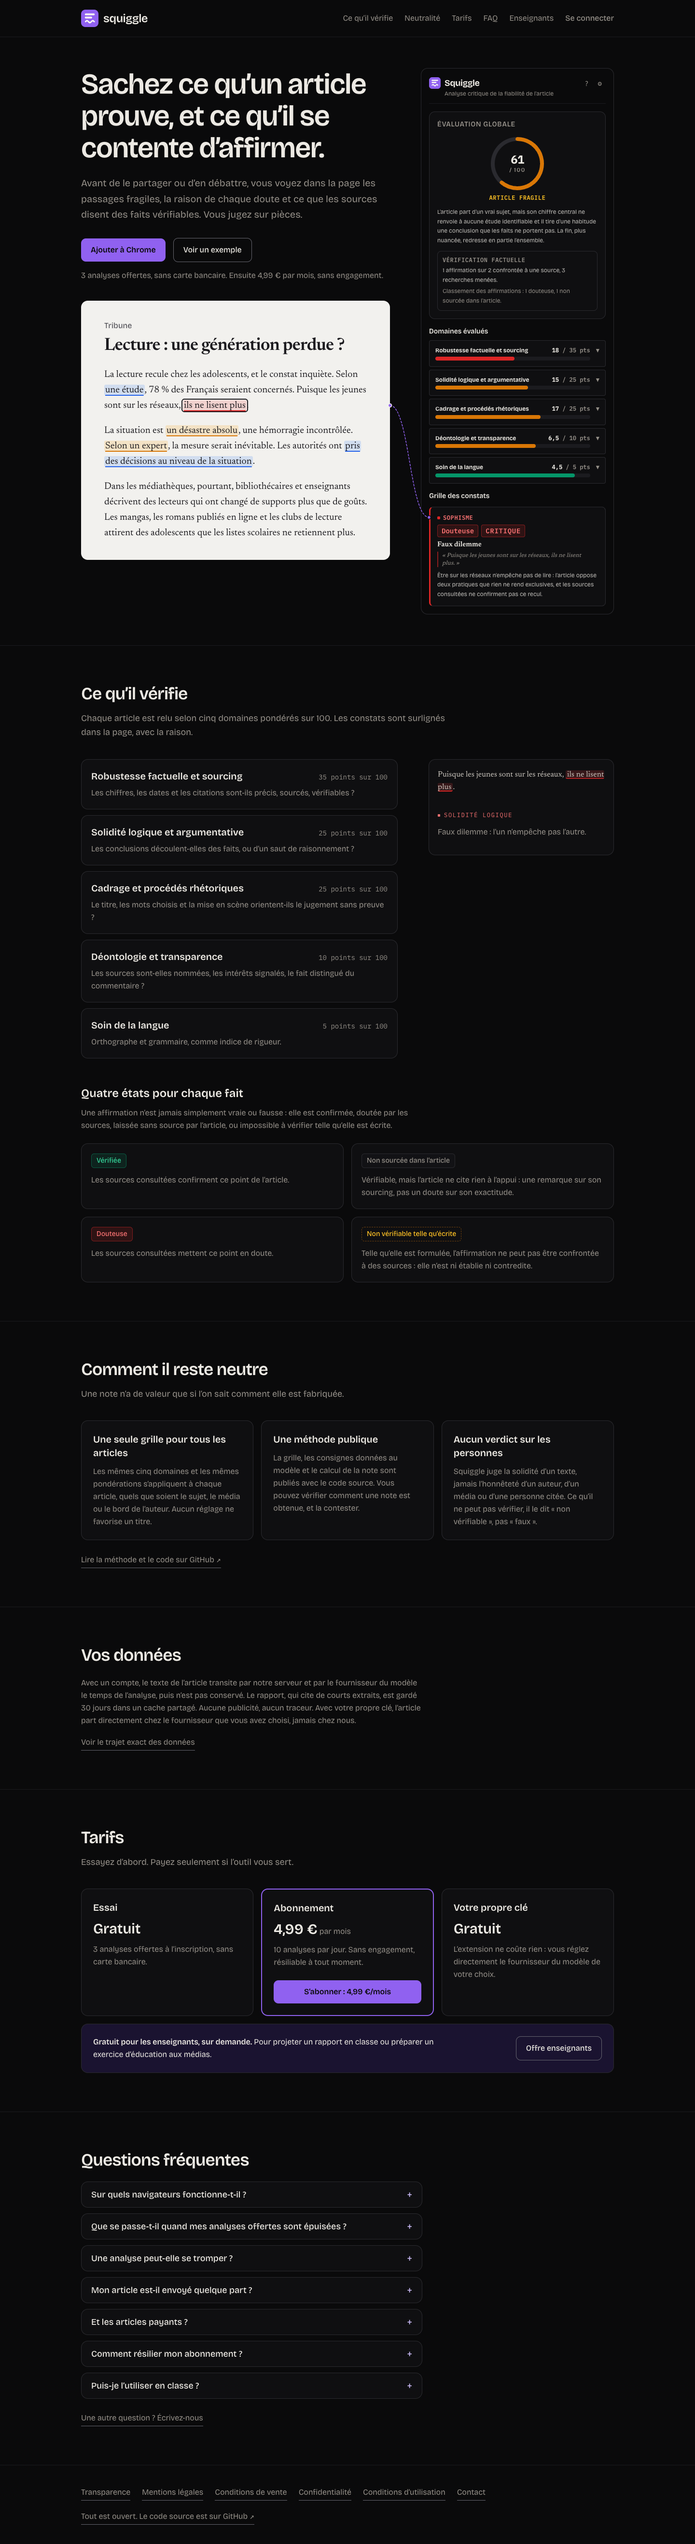
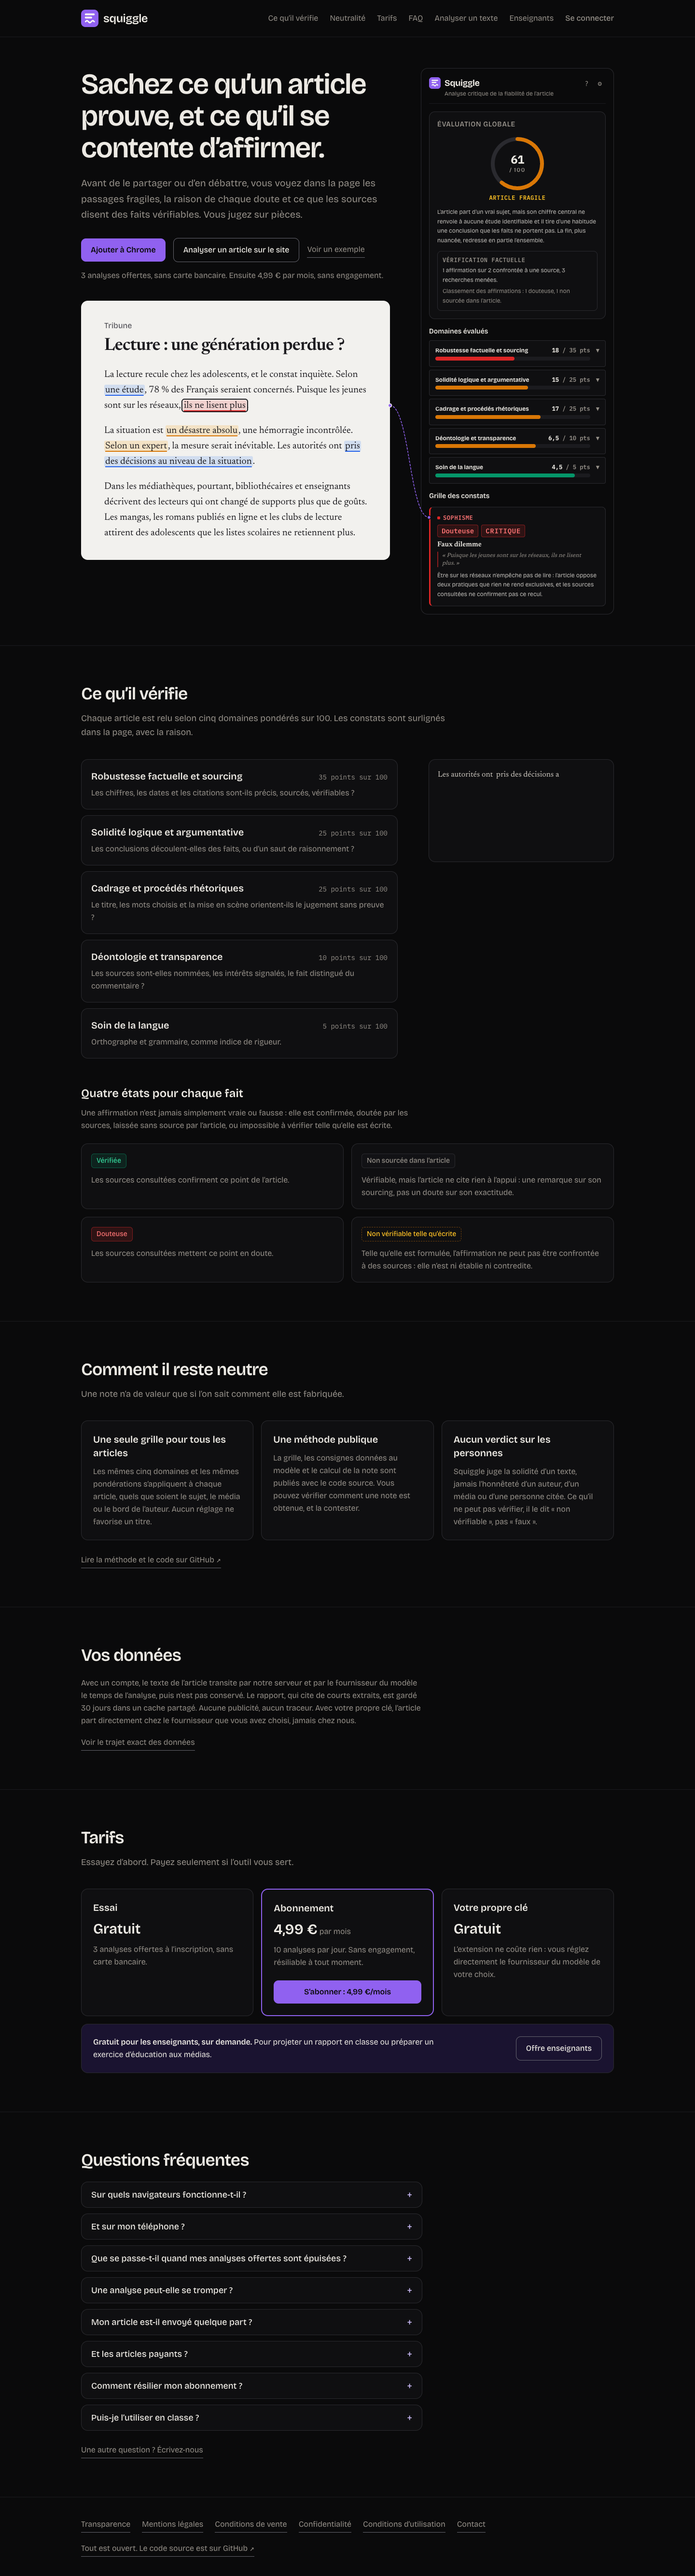
Web: lead with the analysis on a phone, and steer the installed app to the code (#95)
On a phone, or any browser that cannot install the extension, the hero's
primary action now opens /analyser instead of a store the device cannot use,
with the browser's own install prompt as a second button where it exists and
a one-line "Partager > Sur l'écran d'accueil" hint on iOS Safari. On a
desktop Chrome or Firefox the store stays primary and the analysis on the
site is offered second.

Inside the installed app (display-mode standalone), the sign-in code step asks
for the 8-character code rather than the link: on iOS the app keeps its own
cookies, so a link tapped in Mail signs Safari in, not the app.

The install detection moves to web/src/install.ts so the landing and
/analyser share it, and it now recognises an iPad's Safari, which reports a Mac.

diff --git a/web/tests/Accueil.test.tsx b/web/tests/Accueil.test.tsx
@@ -8,7 +8,7 @@
 import { readFileSync } from 'node:fs';
 import { resolve } from 'node:path';
 
-import { cleanup, render, screen, within } from '@testing-library/react';
+import { act, cleanup, render, screen, waitFor, within } from '@testing-library/react';
 import userEvent from '@testing-library/user-event';
 import { afterEach, describe, expect, it, vi } from 'vitest';
 
@@ -17,6 +17,7 @@ import { CONTACT_URL } from '../src/components/Layout';
 import { CHROME_URL, FIREFOX_URL } from '../src/install';
 import { Accueil } from '../src/pages/Accueil';
 import { DOMAINS, VERIFICATION_STATES } from '../src/demo';
+import { MOBILE } from './helpers';
 
 afterEach(cleanup);
 
@@ -148,7 +149,7 @@ describe('Accueil', () => {
     expect(footer.getByRole('link', { name: 'Contact' })).toHaveAttribute('href', CONTACT_URL);
   });
 
-  it('names the store the install button opens, and never leaves it dead', () => {
+  it('names the store the install button opens, with the analysis on the site second', () => {
     const agent = vi.spyOn(navigator, 'userAgent', 'get');
     for (const [ua, label, href] of [
       ['Mozilla/5.0 AppleWebKit/537.36 Chrome/126.0.0.0 Safari/537.36', 'Ajouter à Chrome', CHROME_URL],
@@ -157,26 +158,70 @@ describe('Accueil', () => {
       agent.mockReturnValue(ua);
       render(<Accueil />);
       expect(screen.getByRole('link', { name: label })).toHaveAttribute('href', href);
+      expect(screen.getByRole('link', { name: 'Analyser un article sur le site' })).toHaveAttribute('href', '/analyser');
       cleanup();
     }
+    agent.mockRestore();
+  });
+
+  it('leads with the analysis on the site where no extension can be installed', () => {
+    const agent = vi.spyOn(navigator, 'userAgent', 'get');
     agent.mockReturnValue('Mozilla/5.0 (Macintosh; Intel Mac OS X 10_15_7) Safari/605.1.15');
     render(<Accueil />);
     expect(screen.queryByRole('link', { name: /^Ajouter à/ })).toBeNull();
+    expect(screen.getByRole('link', { name: 'Analyser un article' })).toHaveAttribute('href', '/analyser');
     expect(screen.getByRole('link', { name: 'Chrome' })).toHaveAttribute('href', CHROME_URL);
     expect(screen.getByRole('link', { name: 'Firefox' })).toHaveAttribute('href', FIREFOX_URL);
     agent.mockRestore();
-    expect(screen.getByRole('link', { name: /code source est sur GitHub/ })).toHaveAttribute(
-      'href',
-      'https://github.com/TheGlitching/Squiggle',
-    );
   });
 
-  it('points the second hero button at the example and states the offer without a card', () => {
+  it('on a phone, leads with the analysis and never points at a store', () => {
+    const agent = vi.spyOn(navigator, 'userAgent', 'get');
+    for (const ua of MOBILE) {
+      agent.mockReturnValue(ua);
+      render(<Accueil />);
+      expect(screen.getByRole('link', { name: 'Analyser un article' })).toHaveAttribute('href', '/analyser');
+      expect(screen.queryByRole('link', { name: /^Ajouter à|^Chrome$|^Firefox$/ })).toBeNull();
+      cleanup();
+    }
+    agent.mockRestore();
+  });
+
+  it('offers the browser’s own install prompt when it has one', async () => {
+    const agent = vi.spyOn(navigator, 'userAgent', 'get').mockReturnValue(MOBILE[0]);
+    render(<Accueil />);
+    expect(screen.queryByRole('button', { name: 'Installer l’application' })).toBeNull();
+    const prompt = vi.fn(() => Promise.resolve());
+    act(() => {
+      window.dispatchEvent(Object.assign(new Event('beforeinstallprompt'), { prompt }));
+    });
+    await userEvent.click(screen.getByRole('button', { name: 'Installer l’application' }));
+    expect(prompt).toHaveBeenCalledOnce();
+    await waitFor(() => expect(screen.queryByRole('button', { name: 'Installer l’application' })).toBeNull());
+    agent.mockRestore();
+  });
+
+  it('tells iOS Safari where its install lives, and not Chrome on iOS', () => {
+    const agent = vi.spyOn(navigator, 'userAgent', 'get').mockReturnValue(MOBILE[3]);
+    render(<Accueil />);
+    expect(screen.getByText(/touchez Partager puis « Sur l’écran d’accueil »/)).toBeInTheDocument();
+    cleanup();
+    agent.mockReturnValue(MOBILE[4]);
+    render(<Accueil />);
+    expect(screen.queryByText(/touchez Partager/)).toBeNull();
+    agent.mockRestore();
+  });
+
+  it('keeps the example one tap away and states the offer without a card', () => {
     render(<Accueil />);
     expect(screen.getByRole('link', { name: 'Voir un exemple' })).toHaveAttribute('href', '#verifie');
     expect(
       screen.getByText('3 analyses offertes, sans carte bancaire. Ensuite 4,99 € par mois, sans engagement.'),
     ).toBeInTheDocument();
+    expect(screen.getByRole('link', { name: /code source est sur GitHub/ })).toHaveAttribute(
+      'href',
+      'https://github.com/TheGlitching/Squiggle',
+    );
   });
 
   it('describes the free offer honestly to search engines and link previews', () => {

diff --git a/web/src/pages/Accueil.tsx b/web/src/pages/Accueil.tsx
@@ -10,7 +10,7 @@ import {
 } from '../components/Landing';
 import { HeroScene } from '../components/HeroScene';
 import { DOMAINS, VERIFICATION_STATES } from '../demo';
-import { CHROME_URL, FIREFOX_URL, installLabelFor, installUrlFor } from '../install';
+import { CHROME_URL, FIREFOX_URL, installLabelFor, installUrlFor, isMobile, useInstall } from '../install';
 import { DAILY_ANALYSES, FREE_ANALYSES, GITHUB_URL, PRICE_MONTHLY, SUBSCRIBE_LABEL } from '../offer';
 import { Link } from '../router';
 import { CONTACT_URL } from '../components/Layout';
@@ -79,7 +79,10 @@ const FAQ = [
 ] as const;
 
 export function Accueil() {
-  const installUrl = installUrlFor(typeof navigator === 'undefined' ? '' : navigator.userAgent);
+  const userAgent = typeof navigator === 'undefined' ? '' : navigator.userAgent;
+  const installUrl = installUrlFor(userAgent);
+  const mobile = isMobile(userAgent);
+  const install = useInstall();
 
   return (
     <LandingShell>
@@ -94,34 +97,55 @@ export function Accueil() {
             pièces.
           </p>
 
+          {/* One primary action: the store this browser installs from, or, where no
+              extension can be installed (a phone, Safari), the analysis on the site. */}
           <div className="mt-8 flex flex-wrap items-center gap-x-4 gap-y-3">
             {installUrl ? (
-              <a href={installUrl} className={PRIMARY_BUTTON}>
-                {installLabelFor(installUrl)}
-              </a>
-            ) : (
-              <p className="m-0 text-base text-muted">
-                Disponible pour{' '}
-                <a href={CHROME_URL} className={QUIET_LINK}>
-                  Chrome
-                </a>{' '}
-                et{' '}
-                <a href={FIREFOX_URL} className={QUIET_LINK}>
-                  Firefox
+              <>
+                <a href={installUrl} className={PRIMARY_BUTTON}>
+                  {installLabelFor(installUrl)}
                 </a>
-                .
-              </p>
+                <Link to="/analyser" className={SECONDARY_BUTTON}>
+                  Analyser un article sur le site
+                </Link>
+              </>
+            ) : (
+              <>
+                <Link to="/analyser" className={`${PRIMARY_BUTTON} max-sm:w-full`}>
+                  Analyser un article
+                </Link>
+                {install?.kind === 'prompt' ? (
+                  <button type="button" onClick={install.prompt} className={`${SECONDARY_BUTTON} max-sm:w-full`}>
+                    Installer l’application
+                  </button>
+                ) : null}
+              </>
             )}
-            <a href="#verifie" className={SECONDARY_BUTTON}>
+            <a href="#verifie" className={QUIET_LINK}>
               Voir un exemple
             </a>
-            <Link to="/analyser" className={QUIET_LINK}>
-              Sans extension : analyser un texte
-            </Link>
           </div>
           <p className="mt-4 text-base text-muted">
             {FREE_ANALYSES} analyses offertes, sans carte bancaire. Ensuite {PRICE_MONTHLY} par mois, sans engagement.
           </p>
+          {!installUrl && install?.kind === 'ios' ? (
+            <p className="mt-4 text-base text-muted">
+              Pour l’avoir comme une application, touchez Partager puis « Sur l’écran d’accueil ».
+            </p>
+          ) : null}
+          {!installUrl && !mobile ? (
+            <p className="mt-4 text-base text-muted">
+              L’extension est disponible pour{' '}
+              <a href={CHROME_URL} className={QUIET_LINK}>
+                Chrome
+              </a>{' '}
+              et{' '}
+              <a href={FIREFOX_URL} className={QUIET_LINK}>
+                Firefox
+              </a>
+              .
+            </p>
+          ) : null}
         </HeroScene>
       </div>
 

diff --git a/web/src/install.ts b/web/src/install.ts
@@ -1,15 +1,23 @@
+import { useEffect, useState } from 'react';
+
 /**
  * Where the install button sends the reader. One named constant per store,
  * routed by user agent so the button is never dead: Firefox goes to AMO, a
- * Chromium browser goes to the Chrome Web Store, and anything else (Safari)
- * shows both links instead of a button that goes nowhere.
+ * Chromium browser goes to the Chrome Web Store, and anything else (Safari, a
+ * phone) gets no store at all, so the page leads with the analysis on the site.
  */
 export const CHROME_URL =
   'https://chromewebstore.google.com/detail/squiggle-analyse-critique/gmlbdffooflgdpeiapkdfgkhnfclppec';
 export const FIREFOX_URL = 'https://addons.mozilla.org/en-US/firefox/addon/squiggle-analysis/';
 
+/** A phone or a tablet: no browser there installs the extension from a store. */
+export function isMobile(userAgent: string): boolean {
+  return /Android|iPhone|iPad|iPod|Mobile/.test(userAgent);
+}
+
 /** The store URL for this user agent, or `null` when neither store applies. */
 export function installUrlFor(userAgent: string): string | null {
+  if (isMobile(userAgent)) return null;
   if (/Firefox\//i.test(userAgent)) return FIREFOX_URL;
   if (/Chrome\//.test(userAgent) || /Edg\//.test(userAgent) || /OPR\//.test(userAgent) || /Brave/.test(userAgent)) {
     return CHROME_URL;
@@ -19,4 +27,43 @@ export function installUrlFor(userAgent: string): string | null {
 /** The install button names the store it opens. */
 export function installLabelFor(url: string): string {
   return url === FIREFOX_URL ? 'Ajouter à Firefox' : 'Ajouter à Chrome';
+}
+
+/** True inside the app installed on the home screen, which has its own cookies on iOS. */
+export function isStandalone(): boolean {
+  return typeof window.matchMedia === 'function' && window.matchMedia('(display-mode: standalone)').matches;
+}
+
+interface InstallPromptEvent extends Event {
+  prompt(): Promise<void>;
+}
+
+/**
+ * How this browser installs the app, if it does and it is not installed yet:
+ * Chromium hands over its own prompt, iOS Safari only has its Share menu.
+ * An iPad's Safari reports a Mac, so it is told apart by its touch screen.
+ */
+export function useInstall(): { kind: 'prompt'; prompt: () => void } | { kind: 'ios' } | null {
+  const [deferred, setDeferred] = useState<InstallPromptEvent | null>(null);
+  const ua = navigator.userAgent;
+  const ios =
+    (/iPhone|iPad|iPod/.test(ua) || (/Macintosh/.test(ua) && navigator.maxTouchPoints > 1)) && !/CriOS|FxiOS/.test(ua);
+
+  useEffect(() => {
+    const keep = (event: Event) => {
+      event.preventDefault();
+      setDeferred(event as InstallPromptEvent);
+    };
+    const installed = () => setDeferred(null);
+    window.addEventListener('beforeinstallprompt', keep);
+    window.addEventListener('appinstalled', installed);
+    return () => {
+      window.removeEventListener('beforeinstallprompt', keep);
+      window.removeEventListener('appinstalled', installed);
+    };
+  }, []);
+
+  if (isStandalone()) return null;
+  if (deferred) return { kind: 'prompt', prompt: () => void deferred.prompt().finally(() => setDeferred(null)) };
+  return ios ? { kind: 'ios' } : null;
 }

diff --git a/web/src/pages/Analyser.tsx b/web/src/pages/Analyser.tsx
@@ -16,6 +16,7 @@ import { analysisFailure, analyzePasted, type AnalysisFailure, type Progress } f
 import { getAccount, type Account } from '../api';
 import { PRIMARY_BUTTON, QUIET_LINK, SECONDARY_BUTTON } from '../components/Landing';
 import { Rapport } from '../components/Rapport';
+import { useInstall } from '../install';
 import { FREE_ANALYSES } from '../offer';
 import {
   articleFromShare,
@@ -333,38 +334,6 @@ function Aside() {
       ) : null}
     </aside>
   );
-}
-
-interface InstallPromptEvent extends Event {
-  prompt(): Promise<void>;
-}
-
-/**
- * How this browser installs the app, if it does and it is not installed yet:
- * Chromium hands over its own prompt, iOS Safari only has its Share menu.
- */
-function useInstall(): { kind: 'prompt'; prompt: () => void } | { kind: 'ios' } | null {
-  const [deferred, setDeferred] = useState<InstallPromptEvent | null>(null);
-  const standalone = typeof window.matchMedia === 'function' && window.matchMedia('(display-mode: standalone)').matches;
-  const ios = /iPhone|iPad|iPod/.test(navigator.userAgent) && !/CriOS|FxiOS/.test(navigator.userAgent);
-
-  useEffect(() => {
-    const keep = (event: Event) => {
-      event.preventDefault();
-      setDeferred(event as InstallPromptEvent);
-    };
-    const installed = () => setDeferred(null);
-    window.addEventListener('beforeinstallprompt', keep);
-    window.addEventListener('appinstalled', installed);
-    return () => {
-      window.removeEventListener('beforeinstallprompt', keep);
-      window.removeEventListener('appinstalled', installed);
-    };
-  }, []);
-
-  if (standalone) return null;
-  if (deferred) return { kind: 'prompt', prompt: () => void deferred.prompt().finally(() => setDeferred(null)) };
-  return ios ? { kind: 'ios' } : null;
 }
 
 function Action({

diff --git a/web/src/pages/Connexion.tsx b/web/src/pages/Connexion.tsx
@@ -1,6 +1,7 @@
 import { useEffect, useState, type FormEvent } from 'react';
 
 import { getAccount, googleSignInUrl, messageForError, requestMagicLink, verifyMagicLink } from '../api';
+import { isStandalone } from '../install';
 import { navigate, Link, usePath } from '../router';
 
 function searchOf(path: string): URLSearchParams {
@@ -126,8 +127,11 @@ export function Connexion() {
       ) : (
         <form onSubmit={submitCode} className="mt-8 space-y-4">
           <p className="text-sm text-muted">
-            Saisissez le code à 8 caractères reçu par e-mail, ou ouvrez le lien depuis ce message. Il
-            est valable 10 minutes.
+            {/* The installed app keeps its own cookies on iOS: a link tapped in Mail
+                signs Safari in, not the app, so only the code works here. */}
+            {isStandalone()
+              ? 'Saisissez ici le code à 8 caractères reçu par e-mail, plutôt que de toucher le lien : il s’ouvrirait dans le navigateur, pas dans l’application. Le code est valable 10 minutes.'
+              : 'Saisissez le code à 8 caractères reçu par e-mail, ou ouvrez le lien depuis ce message. Il est valable 10 minutes.'}
           </p>
           <label className="block">
             <span className="text-sm font-medium">Code de connexion</span>

diff --git a/web/tests/Connexion.test.tsx b/web/tests/Connexion.test.tsx
@@ -119,4 +119,21 @@ describe('Connexion', () => {
     });
     expect(new URLSearchParams(window.location.search).get('ext')).toBe('abcdefghijklmnop');
   });
+
+  it('inside the installed app, asks for the code rather than the link', async () => {
+    const user = userEvent.setup();
+    installFetch((call) => {
+      if (call.url.endsWith('/web/account')) return jsonResponse({ ok: false, error: 'invalid_session' }, 401);
+      if (call.url.endsWith('/auth/magic-link')) return jsonResponse({ ok: true, sent: true });
+      return undefined;
+    });
+    vi.stubGlobal('matchMedia', (query: string) => ({ matches: query === '(display-mode: standalone)' }));
+
+    renderAt('/connexion');
+    await user.type(screen.getByLabelText('Adresse e-mail'), 'marie@example.com');
+    await user.click(screen.getByRole('button', { name: 'Recevoir mon code' }));
+
+    expect(await screen.findByText(/plutôt que de toucher le lien/)).toBeInTheDocument();
+    expect(screen.queryByText(/ou ouvrez le lien/)).toBeNull();
+  });
 });

diff --git a/web/tests/install.test.ts b/web/tests/install.test.ts
@@ -5,7 +5,8 @@
  */
 import { describe, expect, it } from 'vitest';
 
-import { CHROME_URL, FIREFOX_URL, installLabelFor, installUrlFor } from '../src/install';
+import { MOBILE } from './helpers';
+import { CHROME_URL, FIREFOX_URL, installLabelFor, installUrlFor, isMobile } from '../src/install';
 
 describe('installUrlFor', () => {
   it('sends Firefox to AMO', () => {
@@ -27,6 +28,13 @@ describe('installUrlFor', () => {
 
   it('returns null for a browser with no store', () => {
     expect(installUrlFor('Mozilla/5.0 (Macintosh; Intel Mac OS X 10_15_7) Safari/605.1.15')).toBeNull();
+  });
+
+  it('returns null on a phone or a tablet, whose browsers install no extension', () => {
+    for (const ua of MOBILE) {
+      expect(isMobile(ua)).toBe(true);
+      expect(installUrlFor(ua)).toBeNull();
+    }
   });
 });
 

diff --git a/web/tests/helpers.ts b/web/tests/helpers.ts
@@ -70,3 +70,12 @@ export function memoryStorage(): Storage {
     },
   };
 }
+
+/** Phone and tablet user agents: Android Chrome (phone and tablet), Android Firefox, iPhone Safari, iPad Chrome. */
+export const MOBILE = [
+  'Mozilla/5.0 (Linux; Android 10; K) AppleWebKit/537.36 (KHTML, like Gecko) Chrome/126.0.0.0 Mobile Safari/537.36',
+  'Mozilla/5.0 (Linux; Android 10; K) AppleWebKit/537.36 (KHTML, like Gecko) Chrome/126.0.0.0 Safari/537.36',
+  'Mozilla/5.0 (Android 14; Mobile; rv:128.0) Gecko/128.0 Firefox/128.0',
+  'Mozilla/5.0 (iPhone; CPU iPhone OS 17_5 like Mac OS X) AppleWebKit/605.1.15 (KHTML, like Gecko) Version/17.5 Mobile/15E148 Safari/604.1',
+  'Mozilla/5.0 (iPad; CPU OS 17_5 like Mac OS X) AppleWebKit/605.1.15 (KHTML, like Gecko) CriOS/126.0 Mobile/15E148 Safari/604.1',
+];
